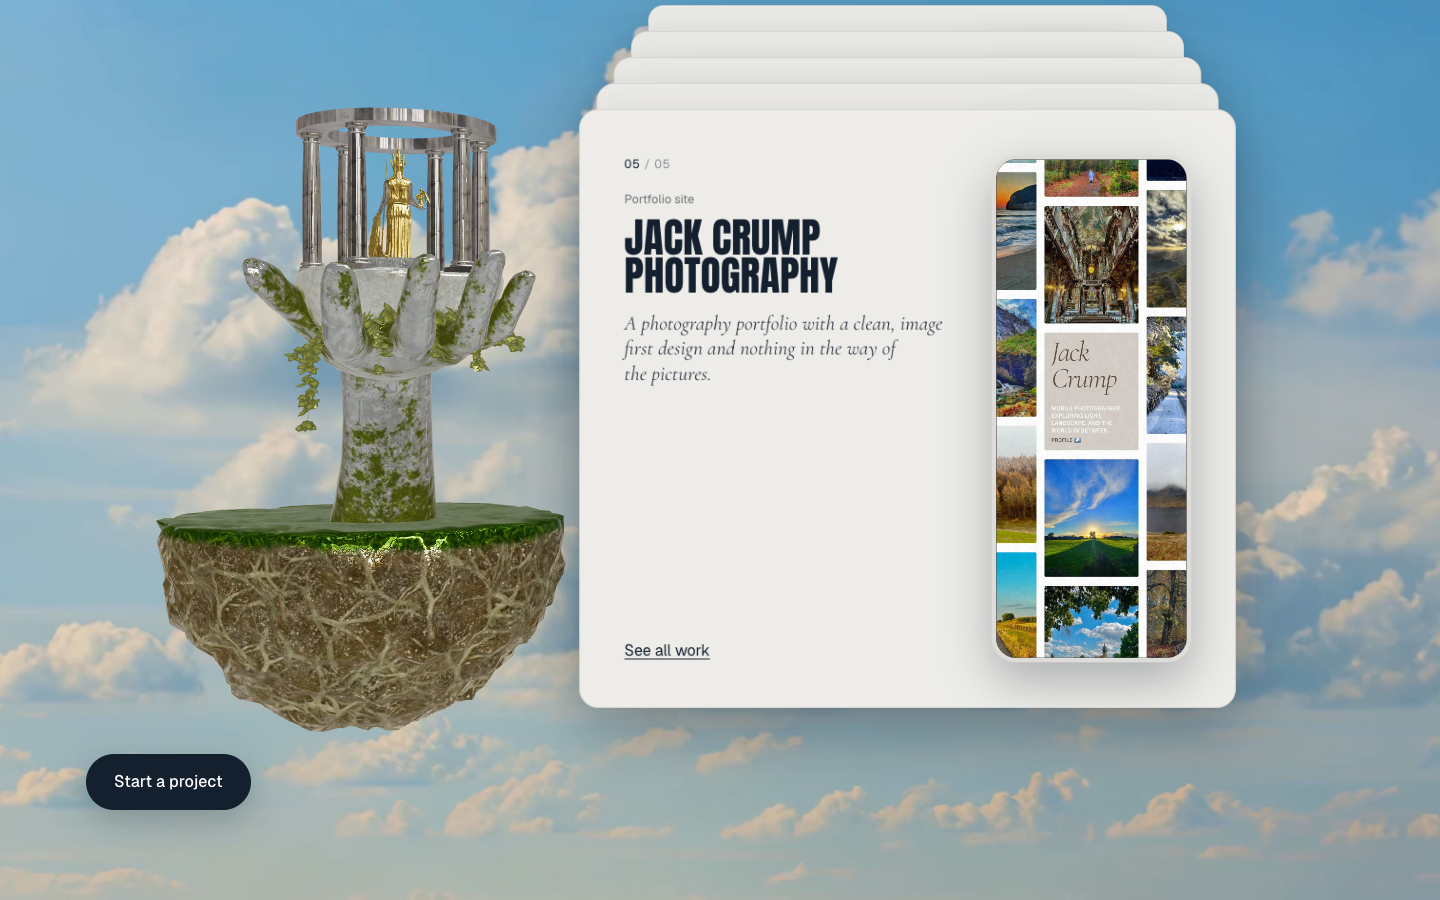
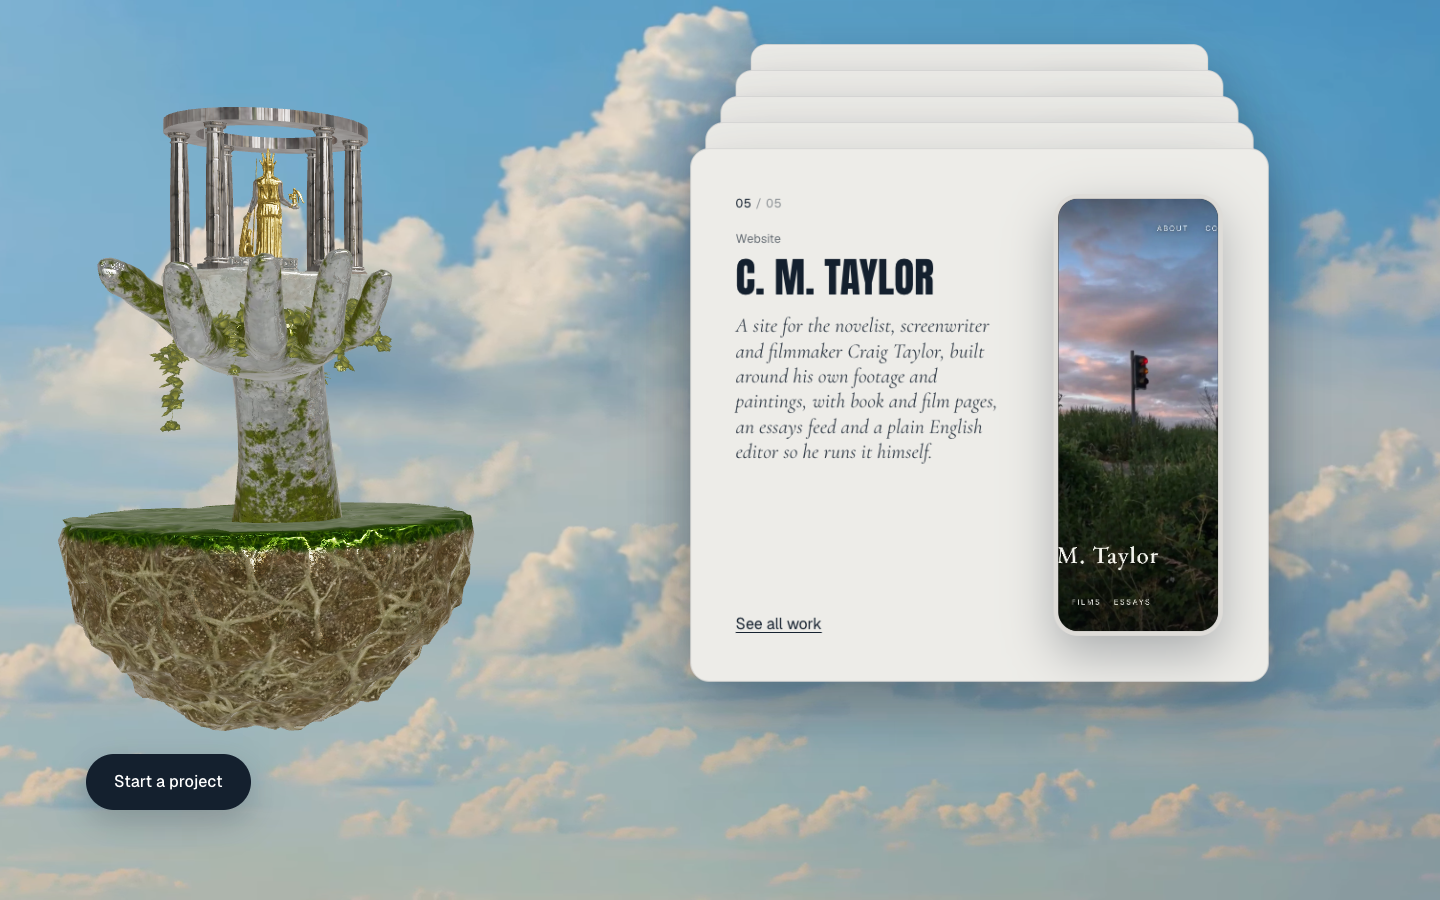
Pillar rebuilds from dust alone; laptop surfaces on top once the column is solid, then opens. Work cards right and smaller, hand further left
Claude-Session: https://claude.ai/code/session_01NAdPXLUXCGhh82qBsMYyAh

diff --git a/src/hero/Rebuild.tsx b/src/hero/Rebuild.tsx
@@ -24,6 +24,8 @@ export const screenState = { centre: new THREE.Vector3(), normal: new THREE.Vect
 export const stageTarget = { look: new THREE.Vector3(0, 0.66, 0), camPos: new THREE.Vector3(0, 0.95, 3.5), fov: 34 };
 
 const rebuildDissolve = makeDissolve(COLUMN_TOP + 0.3, true, 0.06);
+/** the laptop has its own cut: it surfaces after the column is solid, bottom up, and leaves with the column */
+const laptopDissolve = makeDissolve(COLUMN_TOP + 0.3, true, 0.02);
 
 /** Column and laptop surface beneath the settling dust, then turn, open and light up. */
 export function Rebuild({ video, screenTexture }: { video: HTMLVideoElement | null; screenTexture?: THREE.Texture | null }) {
@@ -40,6 +42,8 @@ export function Rebuild({ video, screenTexture }: { video: HTMLVideoElement | nu
     const c = column.scene;
     const l = laptop.scene;
     for (const s of [c, l]) {
+      const d = s === c ? rebuildDissolve : laptopDissolve;
+      const key = s === c ? "rebuild-dissolve" : "laptop-dissolve";
       s.traverse((o) => {
         if ((o as THREE.Mesh).isMesh) {
           const m = o as THREE.Mesh;
@@ -49,7 +53,7 @@ export function Rebuild({ video, screenTexture }: { video: HTMLVideoElement | nu
           const mat = m.material as THREE.MeshStandardMaterial;
           if (mat) {
             mat.side = THREE.DoubleSide;  // thin shells: the cut must show an inside, not a hole
-            applyDissolve(mat, rebuildDissolve, "rebuild-dissolve");
+            applyDissolve(mat, d, key);
           }
         }
       });
@@ -75,7 +79,7 @@ export function Rebuild({ video, screenTexture }: { video: HTMLVideoElement | nu
       // unlit and untonemapped: the screen shows the portal target exactly as the direct render will draw it,
       // the backlight ramp is a plain multiply from black to white
       const sm = new THREE.MeshBasicMaterial({ color: 0x000000, side: THREE.DoubleSide, toneMapped: false });
-      applyDissolve(sm as unknown as THREE.MeshStandardMaterial, rebuildDissolve, "rebuild-dissolve-screen");
+      applyDissolve(sm as unknown as THREE.MeshStandardMaterial, laptopDissolve, "laptop-dissolve-screen");
       // the portal target holds raw shader output that the direct render shows untouched: the screen must not
       // encode it on the way out, or the picture on the screen is brighter than the picture inside
       const withDissolve = sm.onBeforeCompile;
@@ -137,6 +141,9 @@ export function Rebuild({ video, screenTexture }: { video: HTMLVideoElement | nu
     // the floor of the cut sits below the rig's own base, wherever the rig has slid to, so nothing survives
     const floor = (rigState.y - 0.4) / height;
     rebuildDissolve.uCut.value = unb > 0 ? Math.max(floor, cutForUnbuild) : settle <= 0 ? -1 : settle >= 0.999 ? 1e3 : settle * 1.15;
+    // the laptop surfaces bottom up once the column is solid, over a short run, and leaves with the column
+    const reveal = ease.smooth(remap(p, SETTLE.end, SETTLE.end + 0.025));
+    laptopDissolve.uCut.value = unb > 0 ? rebuildDissolve.uCut.value : reveal <= 0 ? -1 : reveal >= 0.999 ? 1e3 : (COLUMN_TOP + rigState.y + reveal * 0.3) / height;
     g.visible = unb < 0.999;
     const wantShadows = settle > 0 && unb < 0.5;
     if (shadows.current !== wantShadows) {

diff --git a/src/hero/Morph.tsx b/src/hero/Morph.tsx
@@ -28,6 +28,7 @@ const vert = /* glsl */ `
   uniform float uRebuild;    // 0..1 across the rebuild
   uniform float uUnbuild;    // 0..1 as the pillar and laptop come apart again, top down
   uniform float uRigY;       // where the pillar rig sits now, relative to where it was sampled
+  uniform float uColumnTop;  // the laptop's points sit above this: they take no part in the rebuild
   uniform float uSettle;     // 0..1 as the meshes surface and the settled dust dies from the base up
   uniform float uSpread;     // how much of the range the delay sweep takes
   uniform float uTime;
@@ -97,7 +98,9 @@ const vert = /* glsl */ `
       return;
     }
     if (uRebuild > 0.0) {
-      // phase B: the same motes come in from the left and settle onto the pillar and laptop, ground up
+      // phase B: the same motes come in from the left and settle onto the pillar, ground up.
+      // The laptop is not built from dust: its points stay hidden here and it surfaces on its own afterwards.
+      if (posB.y > uColumnTop + 0.005) { vFade = 0.0; vT = 0.0; vColor = vec3(0.0); gl_Position = vec4(0.0, 0.0, 2.0, 1.0); gl_PointSize = 0.0; return; }
       float t = clamp((uRebuild - delayB * uSpread) / (1.0 - uSpread), 0.0, 1.0);
       float te = easeOutBack(t);
       vT = t;
@@ -268,6 +271,7 @@ export function Morph({ set = "desktop", frozen = false }: { set?: "desktop" | "
       uRebuild: { value: 0 },
       uUnbuild: { value: 0 },
       uRigY: { value: 0 },
+      uColumnTop: { value: 1.2 },
       uSettle: { value: 0 },
       uSpread: { value: VAPORISE.spread },
       uTime: { value: 0 },

diff --git a/src/hero/Temple.tsx b/src/hero/Temple.tsx
@@ -30,7 +30,7 @@ export function Temple({ frozen = false }: { frozen?: boolean }) {
     g.position.y = THREE.MathUtils.lerp(-5.2, 0, rise);
     // during the work deck the hand sits on the left golden line and the cards take the right
     const work = ease.inOut(remap(progress.q, Q.work[0] - 0.03, Q.work[0] + 0.05));
-    g.position.x = THREE.MathUtils.lerp(0, -1.9, work);
+    g.position.x = THREE.MathUtils.lerp(0, -2.5, work);
     // clockwise seen from above, steady
     g.rotation.y = -0.35 + clock.current * 0.16;
   });

diff --git a/src/app/globals.css b/src/app/globals.css
@@ -552,11 +552,11 @@ footer.section {
 }
 .work__card {
   position: absolute;
-  left: 63%;
+  left: 68%;
   top: 50%;
-  width: min(48vw, 46rem);
-  height: min(70vh, 40rem);
-  margin: calc(min(70vh, 40rem) / -2) 0 0 calc(min(48vw, 46rem) / -2);
+  width: min(42vw, 40rem);
+  height: min(62vh, 35rem);
+  margin: calc(min(62vh, 35rem) / -2) 0 0 calc(min(42vw, 40rem) / -2);
   display: grid;
   grid-template-columns: 1fr 0.618fr;
   gap: calc(var(--pad) * var(--phi));
